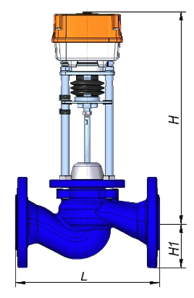
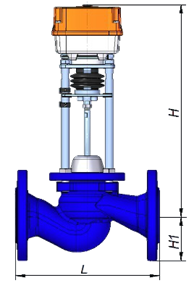
fixed image in excel and fixed css

diff --git a/TeplosilaWeb/Content/css/style.css b/TeplosilaWeb/Content/css/style.css
@@ -125,7 +125,7 @@ input [type=button], input[type=submit], input[type=reset] {
 
 .table td, .table th {
     padding: .2rem;
-    vertical-align: top;
+    vertical-align: middle;
     border-top: 1px solid #dee2e6;
 }
 

diff --git a/TeplosilaWeb/RDT.aspx.cs b/TeplosilaWeb/RDT.aspx.cs
@@ -2721,8 +2721,7 @@ public partial class RDT : System.Web.UI.Page
 
             getDimsR(ref r_input_dict);
 
-            ws.Pictures.Add(HttpContext.Current.Server.MapPath("~/Content/images/rdt/" + ((r_input_dict[4] == this.eorRadioButtonList1.Items[0].Text) || (r_input_dict[4] == eorRadioButtonList1.Items[1].Text) ? "Габаритный RDT и RDT-P.jpg" : "Габаритный RDT-S и RDT-B.jpg")), "A44", "B53");
-
+            ws.Pictures.Add(HttpContext.Current.Server.MapPath("~/Content/images/rdt/" + ((r_input_dict[4] == this.eorRadioButtonList1.Items[0].Text) || (r_input_dict[4] == eorRadioButtonList1.Items[1].Text) ? "Габаритный RDT и RDT-P.jpg" : "Габаритный RDT-S и RDT-B.jpg")), "A43", "B54");
 
 
             ws.Cells["F43"].Value = r_input_dict[51];

diff --git a/TeplosilaWeb/TRV.aspx.cs b/TeplosilaWeb/TRV.aspx.cs
@@ -3957,7 +3957,7 @@ public partial class TRV : System.Web.UI.Page
 
 
 
-        ws.Pictures.Add(HttpContext.Current.Server.MapPath("~/Content/images/trv/" + ((v_input_dict[7] == this.tvRadioButtonList1.Items[0].Text) ? "Габаритный TRV и TRV-P.png" : "Габаритный TRV-3.png")), "A37", "B46");
+        ws.Pictures.Add(HttpContext.Current.Server.MapPath("~/Content/images/trv/" + ((v_input_dict[7] == this.tvRadioButtonList1.Items[0].Text) ? "Габаритный TRV и TRV-P.png" : "Габаритный TRV-3.png")), "A37", "B47");
 
 
         string path = HttpContext.Current.Server.MapPath("~/Files/TRV/PDF/" + DateTime.Now.ToString("dd-MM-yyyy"));
